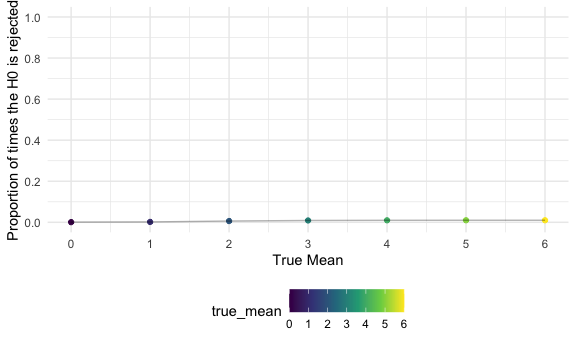
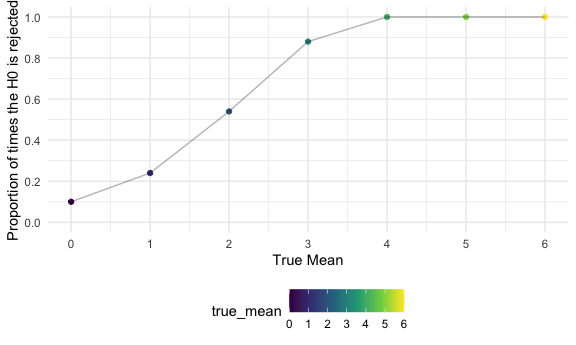
final amendemnts to problem 2-3

diff --git a/p8105_hw5_mm5951.md b/p8105_hw5_mm5951.md
@@ -17,18 +17,7 @@ observations to “na” (““,”Unknown”). To describe the raw data, I use
 
 ``` r
 homicide_df_raw = read_csv("./data/homicide-data.csv", na = c("","Unknown"))
-```
 
-    ## Rows: 52179 Columns: 12
-    ## ── Column specification ────────────────────────────────────────────────────────
-    ## Delimiter: ","
-    ## chr (8): uid, victim_last, victim_first, victim_race, victim_sex, city, stat...
-    ## dbl (4): reported_date, victim_age, lat, lon
-    ## 
-    ## ℹ Use `spec()` to retrieve the full column specification for this data.
-    ## ℹ Specify the column types or set `show_col_types = FALSE` to quiet this message.
-
-``` r
 skimr::skim(homicide_df_raw)
 ```
 
@@ -343,15 +332,18 @@ results_df %>%
 
 <img src="p8105_hw5_mm5951_files/figure-gfm/unnamed-chunk-8-1.png" width="90%" />
 
+Note Chicago is an outlier, with a higher proportion of unresolved
+homicides (above 70%), when compared to the rest of US cities.
+
 ## Problem 3
 
-**PROMPT:** When designing an experiment or analysis, a common question
+**PROMPT:** *When designing an experiment or analysis, a common question
 is whether it is likely that a true effect will be detected – put
 differently, whether a false null hypothesis will be rejected. The
 probability that a false null hypothesis is rejected is referred to as
 power, and it depends on several factors, including: the sample size;
 the effect size; and the error variance. In this problem, you will
-conduct a simulation to explore power in a one-sample t-test.
+conduct a simulation to explore power in a one-sample t-test.*
 
 ### Dataset generation
 
@@ -376,7 +368,6 @@ do so, I will:
   α=0.05 (`t.test()` within `broom::tidy()`) in each of the samples;
 - generate a “result” object which contains 7 lists, one for each
   pre-set mean (0:6).
-- 
 
 ``` r
 n = 30
@@ -422,13 +413,13 @@ result_df = result_df %>%
 
 ### Data visualization
 
-Next, I make a plot showing the proportion of times the null (H0) was
-rejected on the y axis and the true value of μ on the x axis.
+Next, I make a plot showing the **proportion of times the null (H0) was
+rejected on the y axis and the true value of μ on the x axis**.
 
 ``` r
 power_plot = result_df %>%
   group_by(true_mean) %>% 
-  summarize(power = sum(reject)/5000) %>% 
+  summarize(power = sum(reject)/50) %>% 
   ggplot(aes(x = true_mean, y = power)) +
   geom_point(aes(colour = true_mean)) +
   geom_line(alpha = 0.3) +
@@ -442,16 +433,16 @@ power_plot
 
 <img src="p8105_hw5_mm5951_files/figure-gfm/unnamed-chunk-12-1.png" width="90%" />
 
-The lower the mean, the lower the proportion of times that the null
-hypothesis was rejected. That means, there’s a direct association
-between effect size and power. **REVIEW**
+The lower the true mean, the lower the proportion of times that the null
+hypothesis was rejected. That means, if the effect size of the
+intervention is large, it is possible to detect such an effect in
+smaller sample numbers, whereas a smaller effect size would require
+larger sample sizes.
 
-Next, I make a two-pannel plot showing:
-
-- the average estimate of μ̂ on the y axis and the true value of μ on the
-  x axis.
-- the average estimate of μ̂ only in samples for which the null was
-  rejected on the y axis and the true value of μ on the x axis.
+Next, I make another plot showing the **average estimate of μ̂ on the y
+axis and the true value of μ on the x axis**. Note that the direct
+relationship shows that the average repeated samples mean is quite
+approximate to the true mean.
 
 ``` r
 means_plot = result_df %>%
@@ -459,24 +450,12 @@ means_plot = result_df %>%
   summarize(mean_sample = mean(sample_mean)) %>%
   ggplot(aes(x = true_mean, y = mean_sample)) +
   geom_point(aes(colour = true_mean)) +
-  labs(title = "Total Sample",
+  geom_line(alpha = 0.3) +
+  labs(title = "True and Estimate Mean: Total Samples",
        x = "True Mean", 
-       y = "Sample Mean") +
+       y = "Average of Estimated Means") +
   scale_x_continuous(limits = c(0,6), breaks = seq(0,6,1)) +
-  scale_y_continuous(limits = c(-2,7), breaks = seq(-2,7,1)) +
-  theme(plot.title = element_text(hjust = 0.5))
-
-means_reject = result_df %>%
-  group_by(true_mean) %>%
-  filter(p.value < 0.05) %>%
-  summarize(mean_sample = mean(sample_mean)) %>%
-  ggplot(aes(x = true_mean, y = mean_sample)) +
-  geom_point(aes(colour = true_mean)) +
-  labs(title = "Rejected Null Sample",
-       x = "True Mean", 
-       y = "Sample Mean") +
-  scale_x_continuous(limits = c(0,6), breaks = seq(0,6,1)) +
-  scale_y_continuous(limits = c(-2,7), breaks = seq(-2,7,1)) +
+  scale_y_continuous(limits = c(-1,7), breaks = seq(-1,7,1)) +
   theme(plot.title = element_text(hjust = 0.5))
 
 means_plot
@@ -484,11 +463,36 @@ means_plot
 
 <img src="p8105_hw5_mm5951_files/figure-gfm/unnamed-chunk-13-1.png" width="90%" />
 
+Finally, I make one last plot showing the **average estimate of μ̂ only
+in samples for which the null was rejected on the y axis and the true
+value of μ on the x axis**.
+
 ``` r
+means_reject = result_df %>%
+  group_by(true_mean) %>%
+  filter(p.value < 0.05) %>%
+  summarize(mean_sample = mean(sample_mean)) %>%
+  ggplot(aes(x = true_mean, y = mean_sample)) +
+  geom_point(aes(colour = true_mean)) +
+  geom_line(alpha = 0.3) +
+  labs(title = "True and Estimate Mean: Rejected H0 Samples",
+       x = "True Mean", 
+       y = "Average of Estimated Means") +
+  scale_x_continuous(limits = c(0,6), breaks = seq(0,6,1)) +
+  scale_y_continuous(limits = c(-1,7), breaks = seq(-1,7,1)) +
+  theme(plot.title = element_text(hjust = 0.5))
+
 means_reject
 ```
 
-<img src="p8105_hw5_mm5951_files/figure-gfm/unnamed-chunk-13-2.png" width="90%" />
+<img src="p8105_hw5_mm5951_files/figure-gfm/unnamed-chunk-14-1.png" width="90%" />
 
-**PENDING** Is the sample average of μ̂ across tests for which the null
-is rejected approximately equal to the true value of μ? Why or why not?
+Note the sample average of μ̂ across tests for which the null (H0) is
+rejected is not always equal to the true value of μ (especially for true
+means 0:2). That is related to the effect size and power relation that
+was depicted above: the smaller the effect size, the bigger power that
+it is required to reject the null hypothesis. With a fix sample size, in
+this example it becomes apparent how the estimated mean and true mean do
+not match for smaller values, but quite accurately do for bigger ones.
+
+*That’s it for homework 5!*
